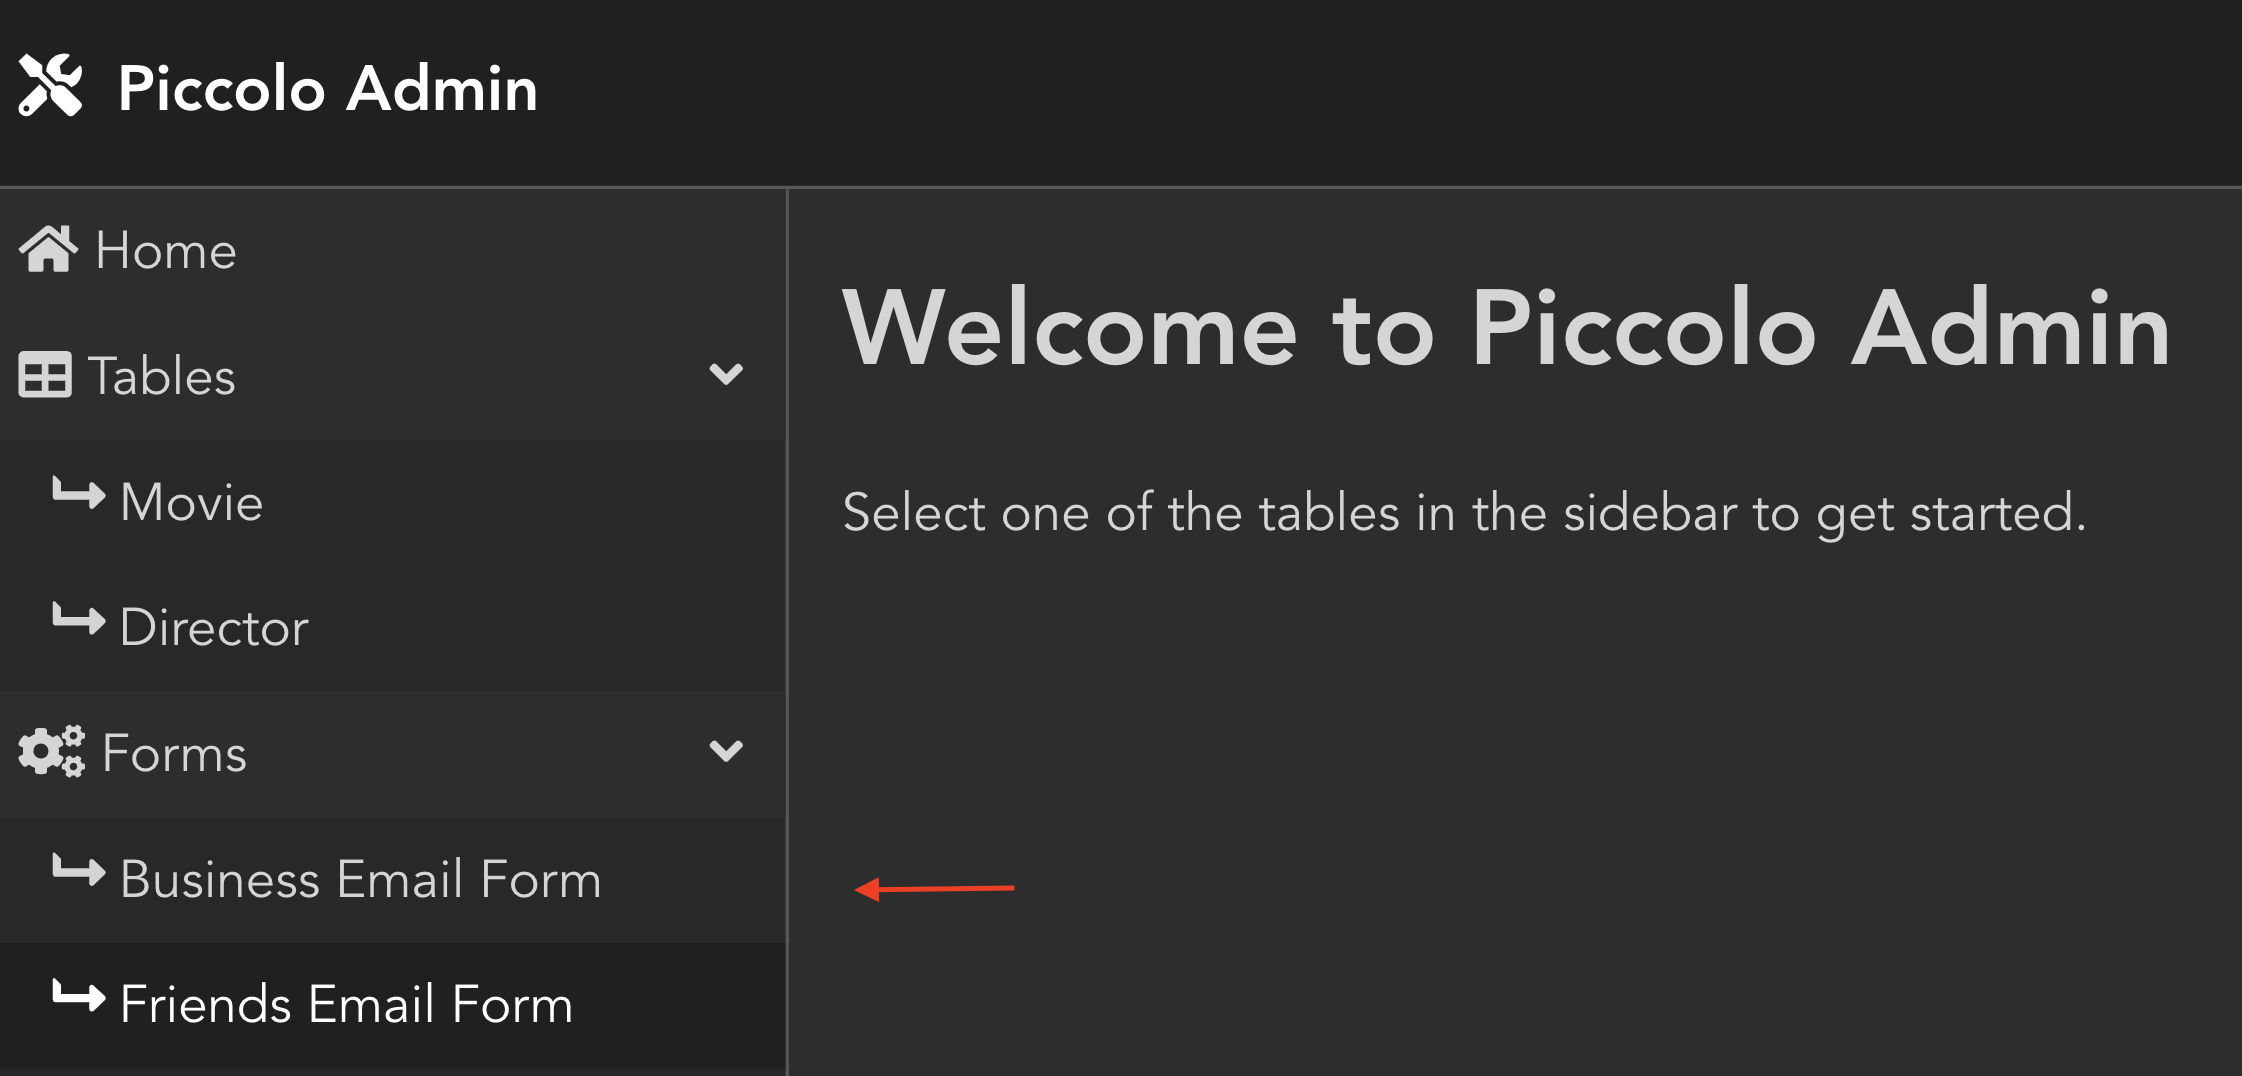
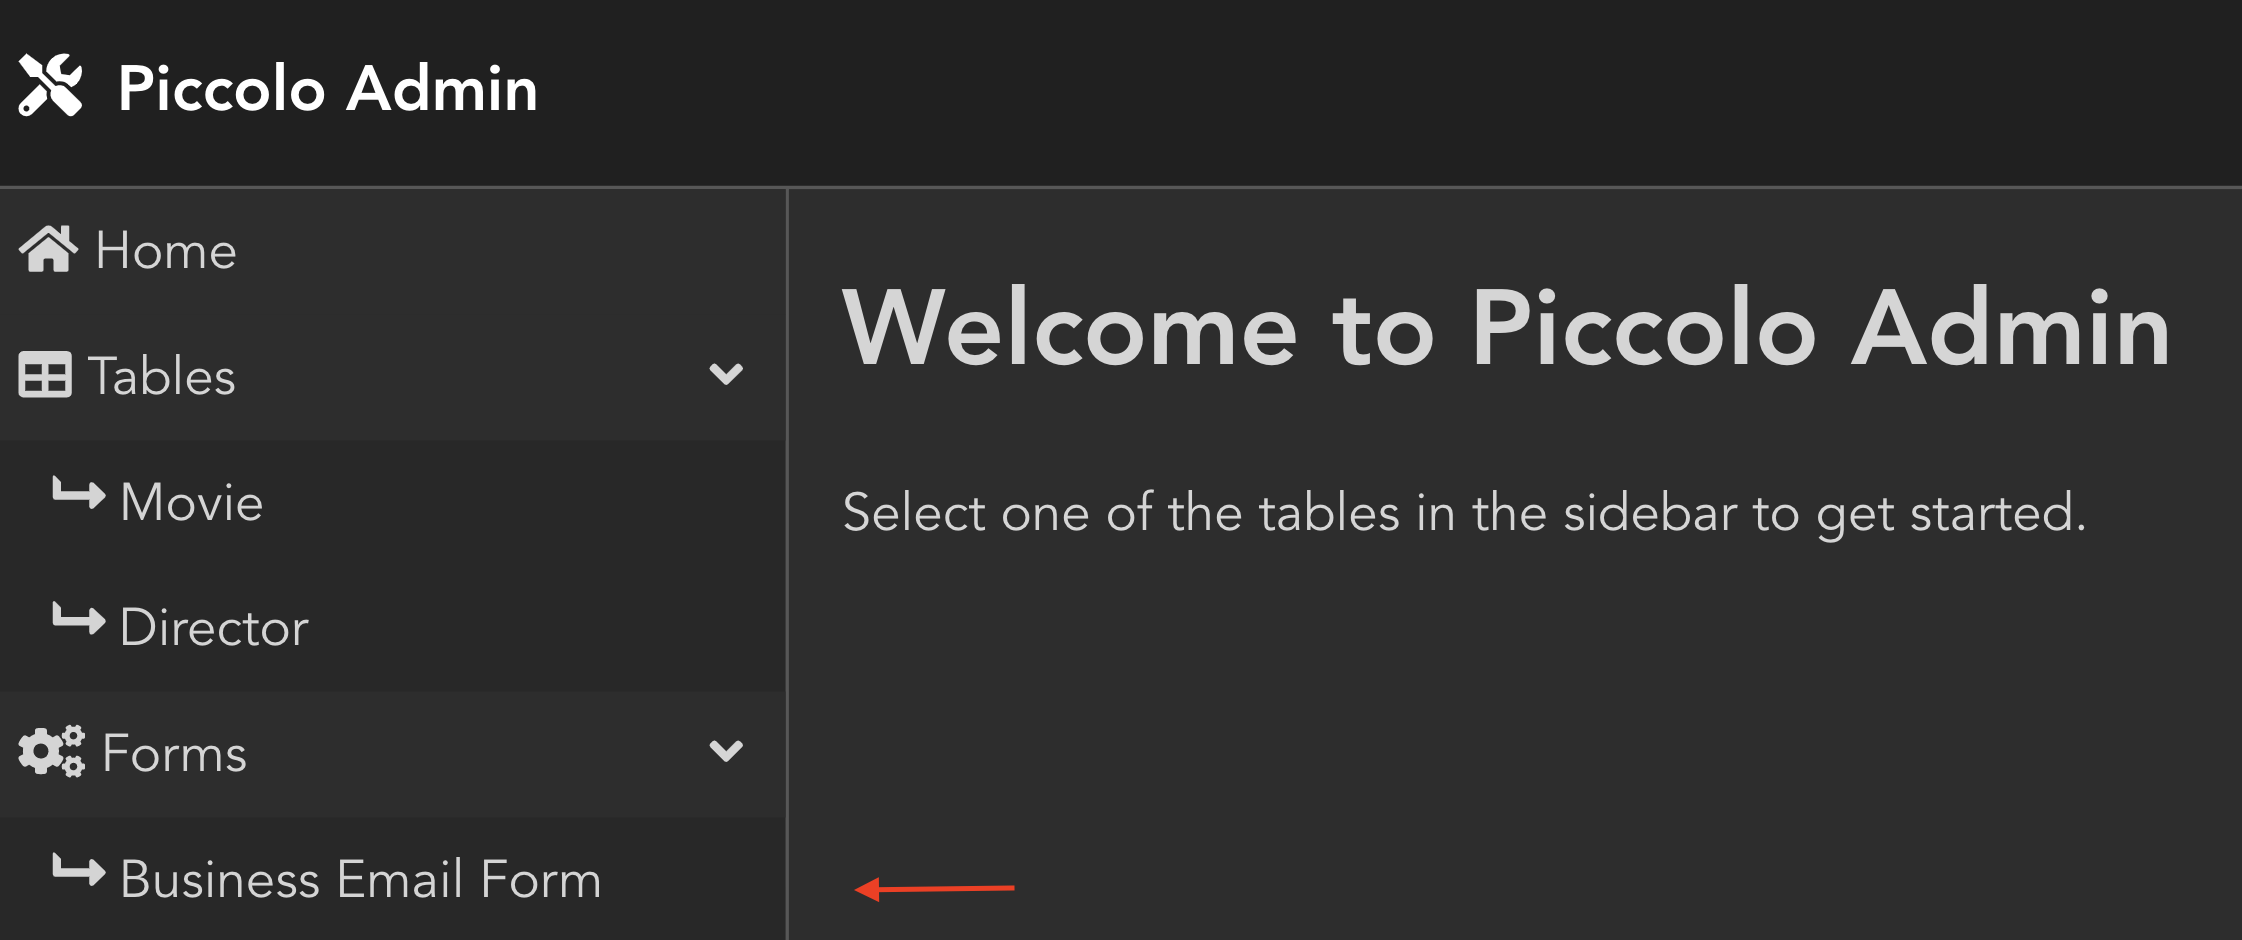
tweak one of the example forms so it's a bit different

diff --git a/admin_ui/cypress/integration/CustomForm.spec.ts b/admin_ui/cypress/integration/CustomForm.spec.ts
@@ -5,82 +5,71 @@
 
 context('Startup', () => {
     beforeEach(() => {
-        cy.visit('http://piccolo_admin/#/login?nextURL=%2F');
-    });
+        cy.visit('http://piccolo_admin/#/login?nextURL=%2F')
+    })
 
     it('Fill custom forms', () => {
-
         // Fill the username
         cy.get('[name="username"]')
             .type('piccolo')
-            .should('have.value', 'piccolo');
+            .should('have.value', 'piccolo')
 
         // Fill the password
         cy.get('[name="password"]')
             .type('piccolo123')
-            .should('have.value', 'piccolo123');
+            .should('have.value', 'piccolo123')
 
         // Locate and submit the form
-        cy.get('form')
-            .submit();
+        cy.get('form').submit()
 
         // Verify the app redirected to the admin page
-        cy.location('pathname', { timeout: 2000 })
-            .should('eq', '/');
+        cy.location('pathname', { timeout: 2000 }).should('eq', '/')
 
         // Verify the page title is "Piccolo Admin"
-        cy.title()
-            .should('eq', 'Piccolo Admin');
+        cy.title().should('eq', 'Piccolo Admin')
 
-        cy.wait(2000);
+        cy.wait(2000)
 
-        cy.contains(' Business email form ')
-            .click();
+        cy.contains('Business email form').click()
 
-        cy.wait(2000);
+        cy.wait(2000)
 
         // Fill custom form
         cy.get('[name="email"]')
             .type('director@director.com')
-            .should('have.value', 'director@director.com');
+            .should('have.value', 'director@director.com')
 
         cy.get('[name="title"]')
             .type('Hello')
-            .should('have.value', 'Hello');
+            .should('have.value', 'Hello')
 
         cy.get('[name="content"]')
             .type('Hello from Piccolo Admin')
-            .should('have.value', 'Hello from Piccolo Admin');
+            .should('have.value', 'Hello from Piccolo Admin')
 
         // Locate and submit the form
-        cy.get('form')
-            .submit();
+        cy.get('form').submit()
 
-        cy.wait(2000);
+        cy.wait(2000)
 
+        cy.contains('Booking form').click()
 
-        cy.contains(' Friends email form ')
-            .click();
-
-        cy.wait(2000);
+        cy.wait(2000)
 
         // Fill custom form
         cy.get('[name="email"]')
             .type('friend@friend.com')
-            .should('have.value', 'friend@friend.com');
+            .should('have.value', 'friend@friend.com')
 
-        cy.get('[name="title"]')
-            .type('Hello friend')
-            .should('have.value', 'Hello friend');
+        cy.get('[name="name"]')
+            .type('Bob')
+            .should('have.value', 'Bob')
 
-        cy.get('[name="content"]')
-            .type('Hello from Piccolo Admin')
-            .should('have.value', 'Hello from Piccolo Admin');
+        cy.get('[name="notes"]')
+            .type('Star Wars please')
+            .should('have.value', 'Star Wars please')
 
         // Locate and submit the form
-        cy.get('form')
-            .submit();
-
-    });
-
-});
+        cy.get('form').submit()
+    })
+})

diff --git a/piccolo_admin/example.py b/piccolo_admin/example.py
@@ -114,10 +114,10 @@ class BusinessEmailModel(BaseModel):
         return v
 
 
-class FriendsEmailModel(BaseModel):
+class BookingModel(BaseModel):
     email: str
-    title: str
-    content: str
+    name: str
+    notes: str
 
     @validator("email")
     def validate_email(cls, v):
@@ -130,8 +130,8 @@ def business_email_endpoint(request, data):
     sender = "info@example.com"
     receivers = [data.email]
 
-    message = f"""From: From CEO <info@example.com>
-    To: To CEO <{data.email}>
+    message = f"""From: Piccolo Admin <info@example.com>
+    To: Colleague <{data.email}>
     Subject: {data.title}
     {data.content}
     """
@@ -146,14 +146,14 @@ def business_email_endpoint(request, data):
     return "Email sent"
 
 
-def friends_example_endpoint(request, data):
+def booking_endpoint(request, data):
     sender = "info@example.com"
     receivers = [data.email]
 
-    message = f"""From: From Friend <info@example.com>
+    message = f"""From: Bookings <info@example.com>
     To: To Friend <{data.email}>
-    Subject: {data.title}
-    {data.content}
+    Subject: {data.name} booking
+    {data.notes}
     """
 
     try:
@@ -183,10 +183,10 @@ APP = create_admin(
             description="Send an email to a business associate.",
         ),
         FormConfig(
-            name="Friends email form",
-            pydantic_model=FriendsEmailModel,
-            endpoint=friends_example_endpoint,
-            description="Send an email to a friend.",
+            name="Booking form",
+            pydantic_model=BookingModel,
+            endpoint=booking_endpoint,
+            description="Make a booking for a customer.",
         ),
     ],
     auth_table=User,

diff --git a/tests/test_endpoints.py b/tests/test_endpoints.py
@@ -101,9 +101,9 @@ class TestForms(TestCase):
                     "description": "Send an email to a business associate.",
                 },
                 {
-                    "name": "Friends email form",
-                    "slug": "friends-email-form",
-                    "description": "Send an email to a friend.",
+                    "name": "Booking form",
+                    "slug": "booking-form",
+                    "description": "Make a booking for a customer.",
                 },
             ],
         )

diff --git a/docs/source/custom_forms/index.rst b/docs/source/custom_forms/index.rst
@@ -34,8 +34,8 @@ Here's an example of a form which sends email, using FastAPI:
         sender = "info@example.com"
         receivers = data.email
 
-        message = f"""From: From sender <info@example.com>
-        To: To reciever <{data.email}>
+        message = f"""From: Sender <info@example.com>
+        To: Receiver <{data.email}>
         Subject: {data.title}
         {data.content}
         """
@@ -58,7 +58,7 @@ Here's an example of a form which sends email, using FastAPI:
                     tables=[Task],
                     forms=[
                         FormConfig(
-                            name="Email form",
+                            name="Business Email Form",
                             pydantic_model=EmailFormModel,
                             endpoint=email_endpoint,
                         ),
